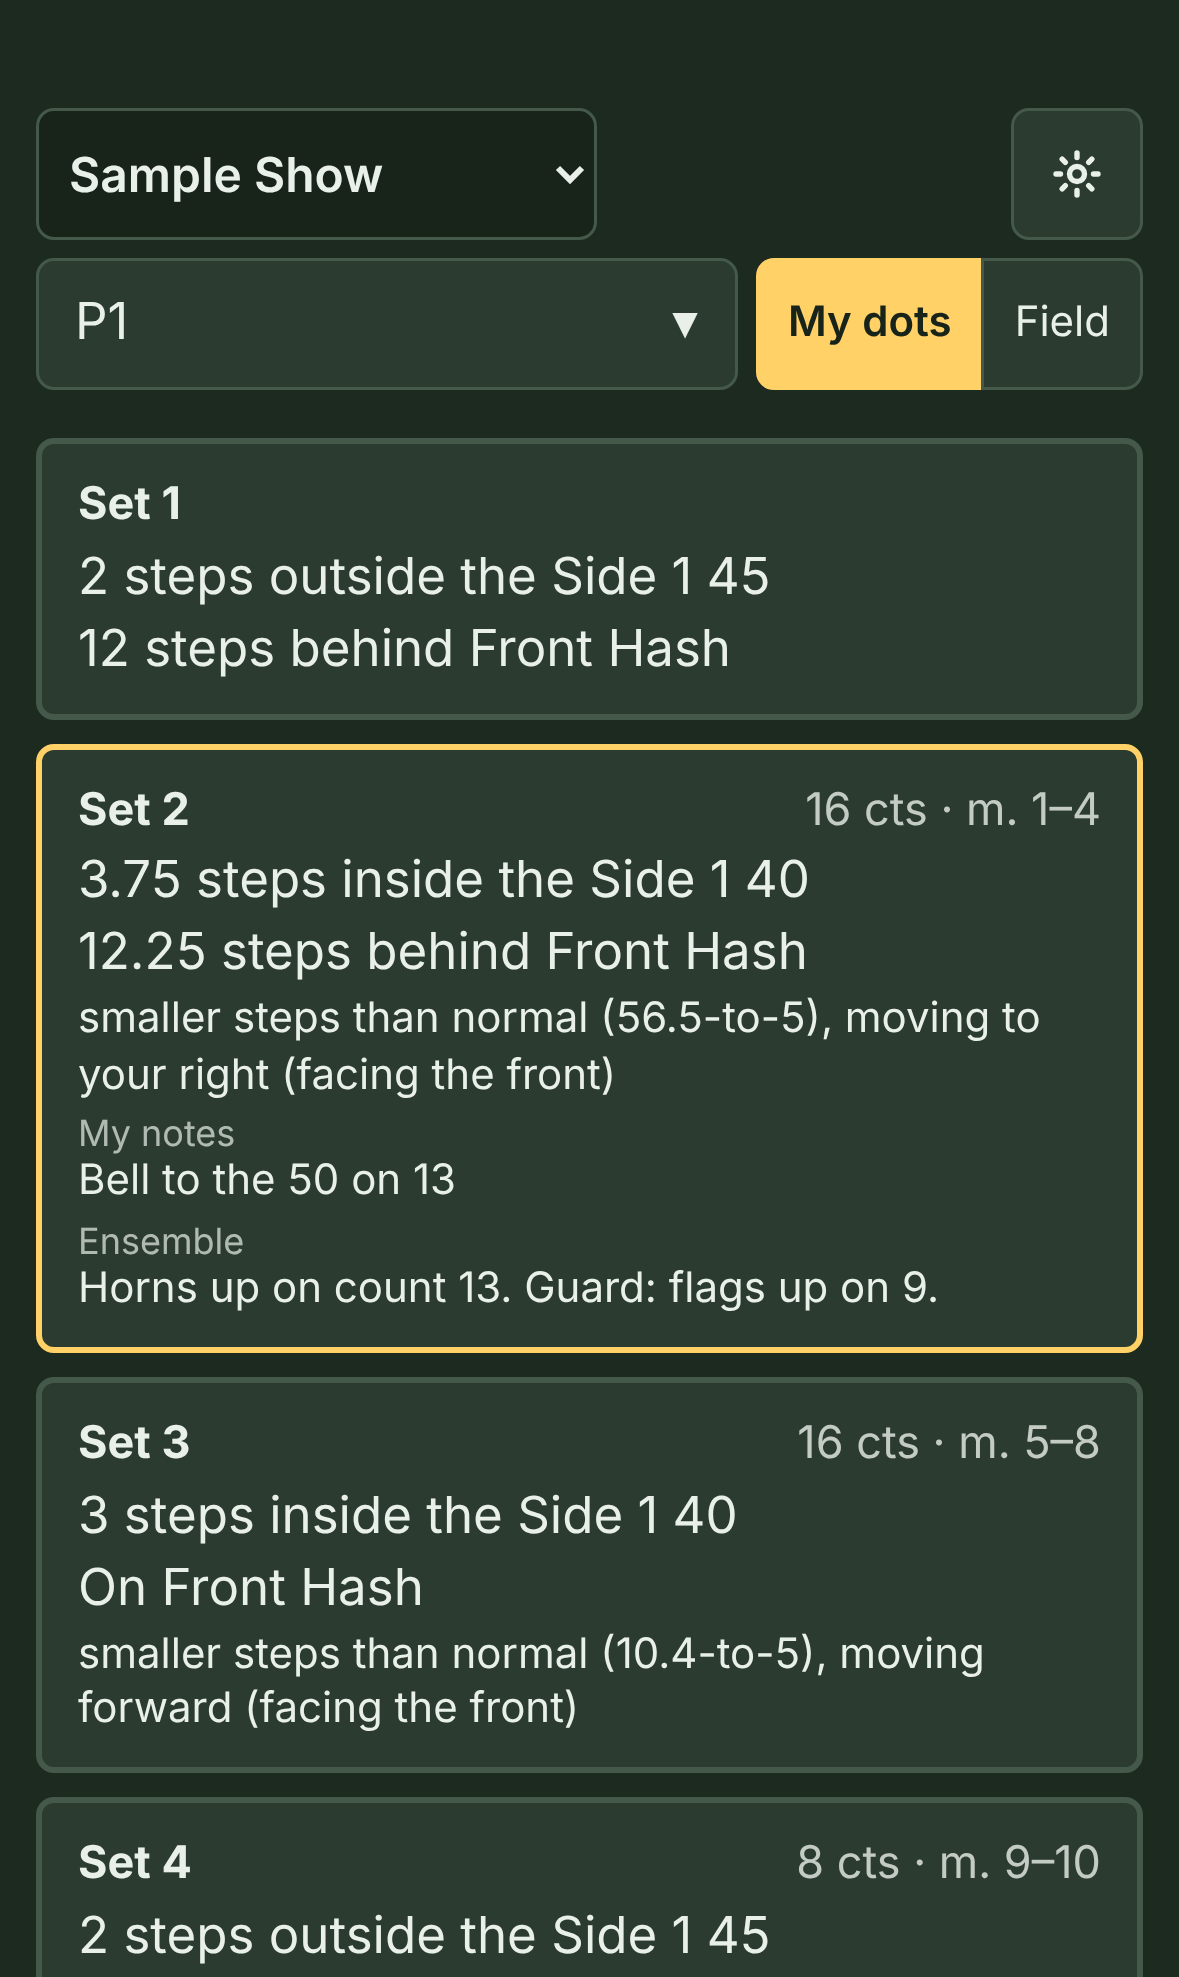
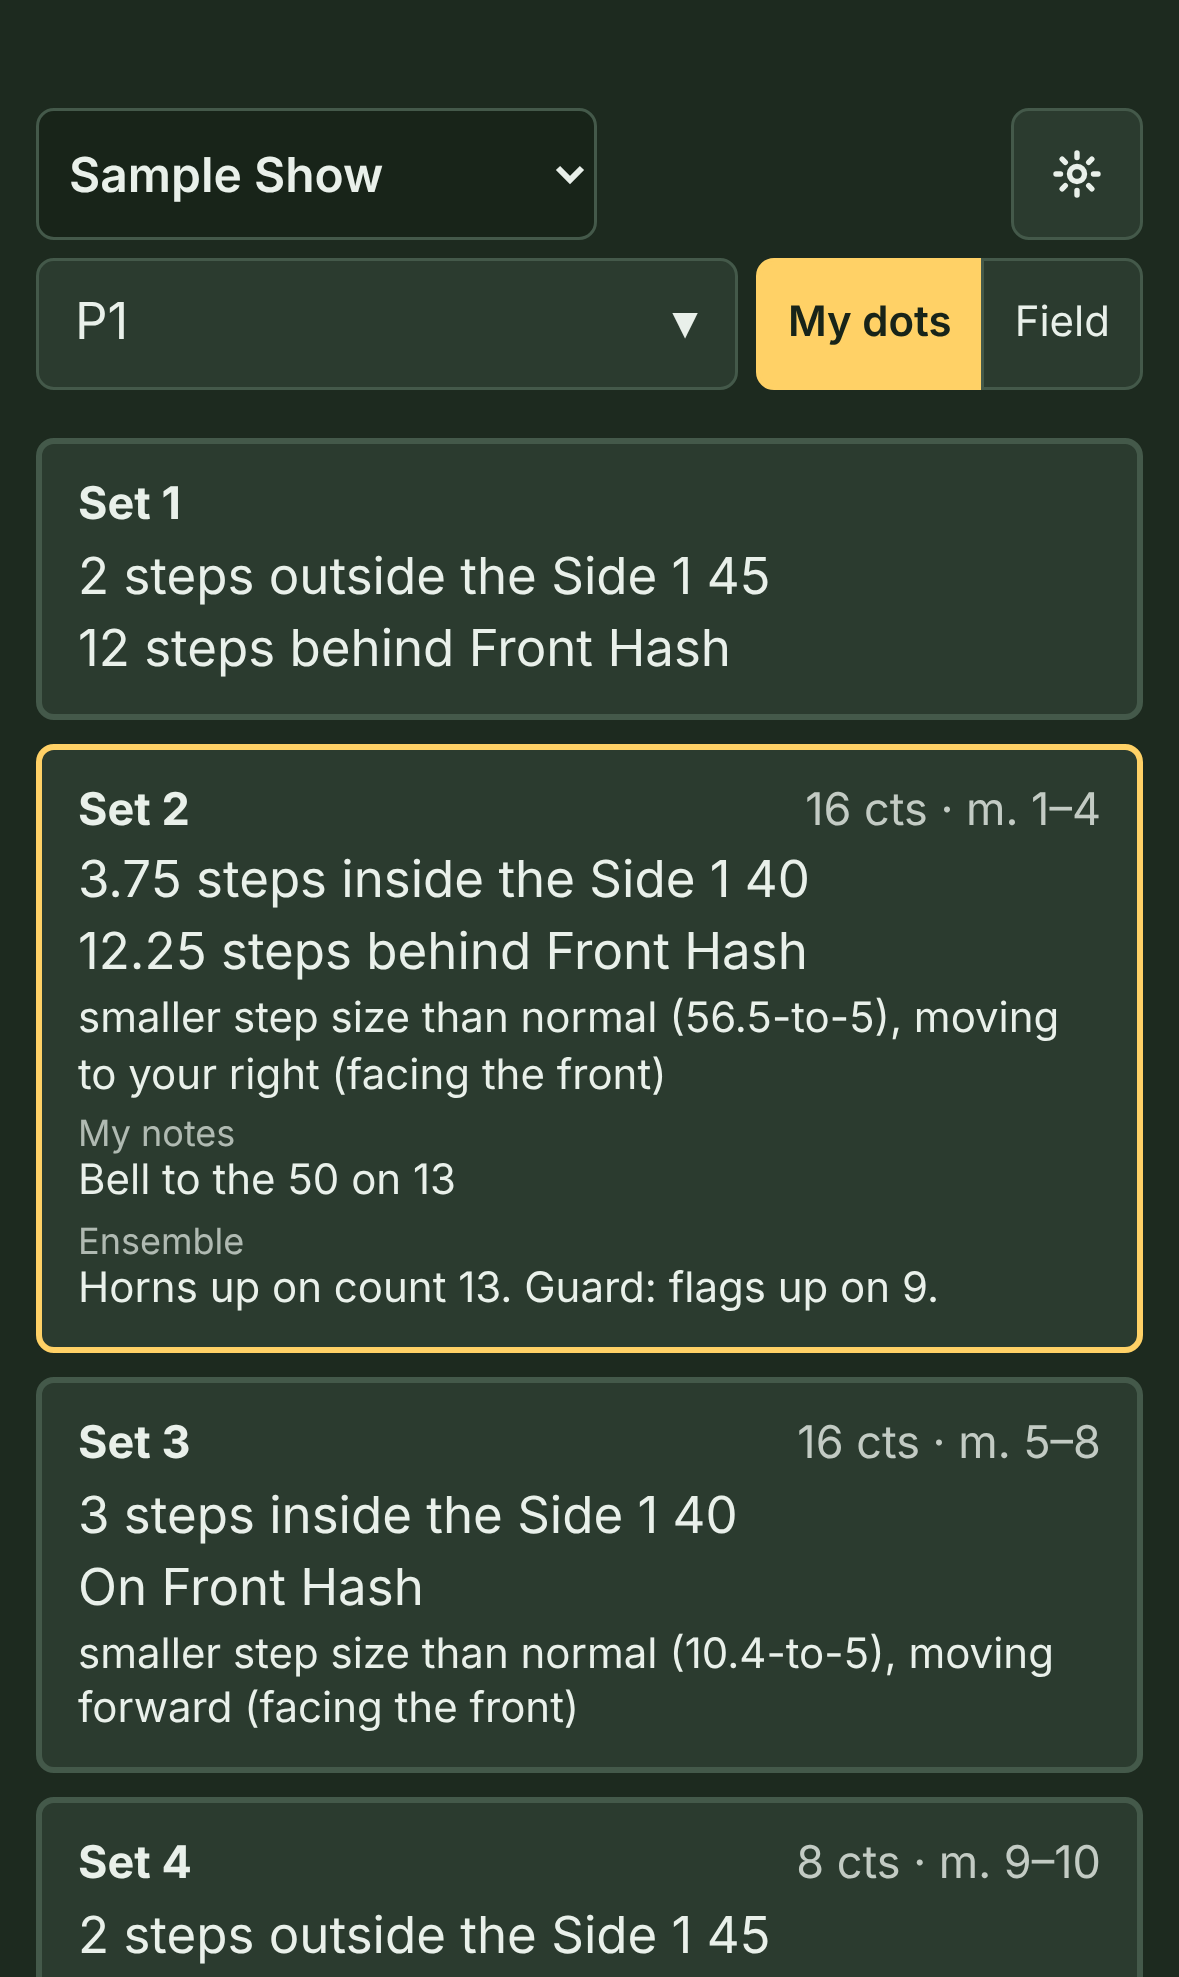
Plain words: "smaller step size than normal"
"smaller steps than normal" now reads "smaller step size than normal",
and "bigger steps than normal" matches it. Spanish updated too.

Claude-Session: https://claude.ai/code/session_012ak5ZRr7ss71pTXTjzJEfV

Changed region(s): [[0.0611, 0.4937, 0.8855, 0.5554], [0.2748, 0.8331, 0.8855, 0.8639]]

diff --git a/src/perform/Perform.tsx b/src/perform/Perform.tsx
@@ -459,7 +459,7 @@ export function Perform() {
                   <span>{[r.counts != null ? tr('{n} cts', { n: r.counts }) : '', r.measures ? tr('m. {m}', { m: r.measures }) : ''].filter(Boolean).join(' · ')}</span></span>
                 <span className="dot-coord">{r.side}</span>
                 <span className="dot-coord">{r.front}</span>
-                {/* The move in plain words, with the step size in parentheses: "smaller steps than normal (10.4-to-5), moving forward". */}
+                {/* The move in plain words, with the step size in parentheses: "smaller step size than normal (10.4-to-5), moving forward". */}
                 {r.steps && me && (() => {
                   const way = moveWords(show.sets[r.index - 1].pos[me.id], show.sets[r.index].pos[me.id]);
                   return <span className="dot-small">{stepWords(r.steps.per5)} (<span style={{ color: STEP_TEXT[r.steps.tier] }}>{fmtStep(r.steps.per5, lang)}</span>){way ? `, ${way}` : ''}</span>;

diff --git a/src/perform/neighbors.test.ts b/src/perform/neighbors.test.ts
@@ -14,7 +14,7 @@ it('labels yard lines for the ruler', () => {
 
 it('says a step size in plain words', async () => {
   const { stepWords } = await import('./neighbors');
-  expect([Infinity, 16, 8, 7, 6.5, 5.3].map((x) => stepWords(x, "en"))).toEqual(['stand still', 'smaller steps than normal', 'normal steps', 'normal steps', 'bigger steps than normal', 'very big steps']);
+  expect([Infinity, 16, 8, 7, 6.5, 5.3].map((x) => stepWords(x, "en"))).toEqual(['stand still', 'smaller step size than normal', 'normal steps', 'normal steps', 'bigger step size than normal', 'very big steps']);
 });
 
 it('says which way a move ends up, facing the front', async () => {

diff --git a/src/perform/neighbors.ts b/src/perform/neighbors.ts
@@ -26,7 +26,7 @@ export function yardLabel(x: number, l: Lang = 'en'): string {
 
 /** A step size in words a student knows: 8-to-5 is a normal step, fewer steps per 5 yards is a bigger step. */
 export function stepWords(per5: number, l: Lang = current): string {
-  const w = per5 === Infinity ? 'stand still' : per5 > 9 ? 'smaller steps than normal' : per5 >= 7 ? 'normal steps' : per5 >= 6 ? 'bigger steps than normal' : 'very big steps';
+  const w = per5 === Infinity ? 'stand still' : per5 > 9 ? 'smaller step size than normal' : per5 >= 7 ? 'normal steps' : per5 >= 6 ? 'bigger step size than normal' : 'very big steps';
   return tr(w, undefined, l);
 }
 

diff --git a/src/i18n/es.ts b/src/i18n/es.ts
@@ -88,9 +88,9 @@ export const ES: Record<string, string> = {
   'My notes': 'Mis notas',
   'Ensemble': 'Para todos',
   'stand still': 'quieto en tu lugar',
-  'smaller steps than normal': 'pasos más chicos de lo normal',
+  'smaller step size than normal': 'tamaño de paso más chico de lo normal',
   'normal steps': 'pasos normales',
-  'bigger steps than normal': 'pasos más grandes de lo normal',
+  'bigger step size than normal': 'tamaño de paso más grande de lo normal',
   'very big steps': 'pasos muy grandes',
   'moving {way} (facing the front)': 'moviéndote {way} (mirando al frente)',
   'back': 'hacia atrás',

diff --git a/DECISIONS.md b/DECISIONS.md
@@ -1509,4 +1509,5 @@ Each entry: timestamp, who decided, context, options considered, decision.
 - **Context:** Jason wants the phone more useful on the field: upright, a list of the performer's dot coordinates; sideways, the field and playback controls.
 - **Options and choices:** (1) Rotation lock: orientation only, or orientation plus a switch. Chose **orientation plus a My dots / Field switch**, since many students keep their phones locked upright and would never see the field otherwise. Turning the phone clears the switch. (2) List rows: dot-sheet style, sentences, or just current and next. Chose **dot-sheet style**: a card per set with the set, counts, measures, side to side, front to back, step size (with the plain words), any hold before stepping off, and notes; the current set outlined in gold; tap a card to go to that set. (3) Sideways readout: one short line, none, or today's side column. Chose **one short line** (the set and my spot). (4) Staff in portrait: the field or a set list. Chose **the field**, always.
 - **Claude's calls (Jason can veto):** the sideways layout keeps the right-hand column (show, who, switch, Follow my dot, the line, and the controls) because a phone on its side is only about 390 px tall, too short for the controls under the field; the list has no playback controls (sideways is for playing); the field stays loaded but hidden while the list shows, so its zoom survives a switch.
-- **Update (same day, Jason asked):** the step size goes in parentheses after the plain words, "smaller steps than normal (10.4-to-5), moving forward (facing the front)", in place of its own line above them. Each card is a line shorter.
+- **Update (same day, Jason asked):** the step size goes in parentheses after the plain words, "smaller step size than normal (10.4-to-5), moving forward (facing the front)", in place of its own line above them. Each card is a line shorter.
+- **Update (same day, Jason asked):** "smaller steps than normal" reads "smaller step size than normal", and "bigger steps than normal" became "bigger step size than normal" to match (Claude's call; Jason can veto). Spanish: "tamaño de paso más chico (grande) de lo normal".
